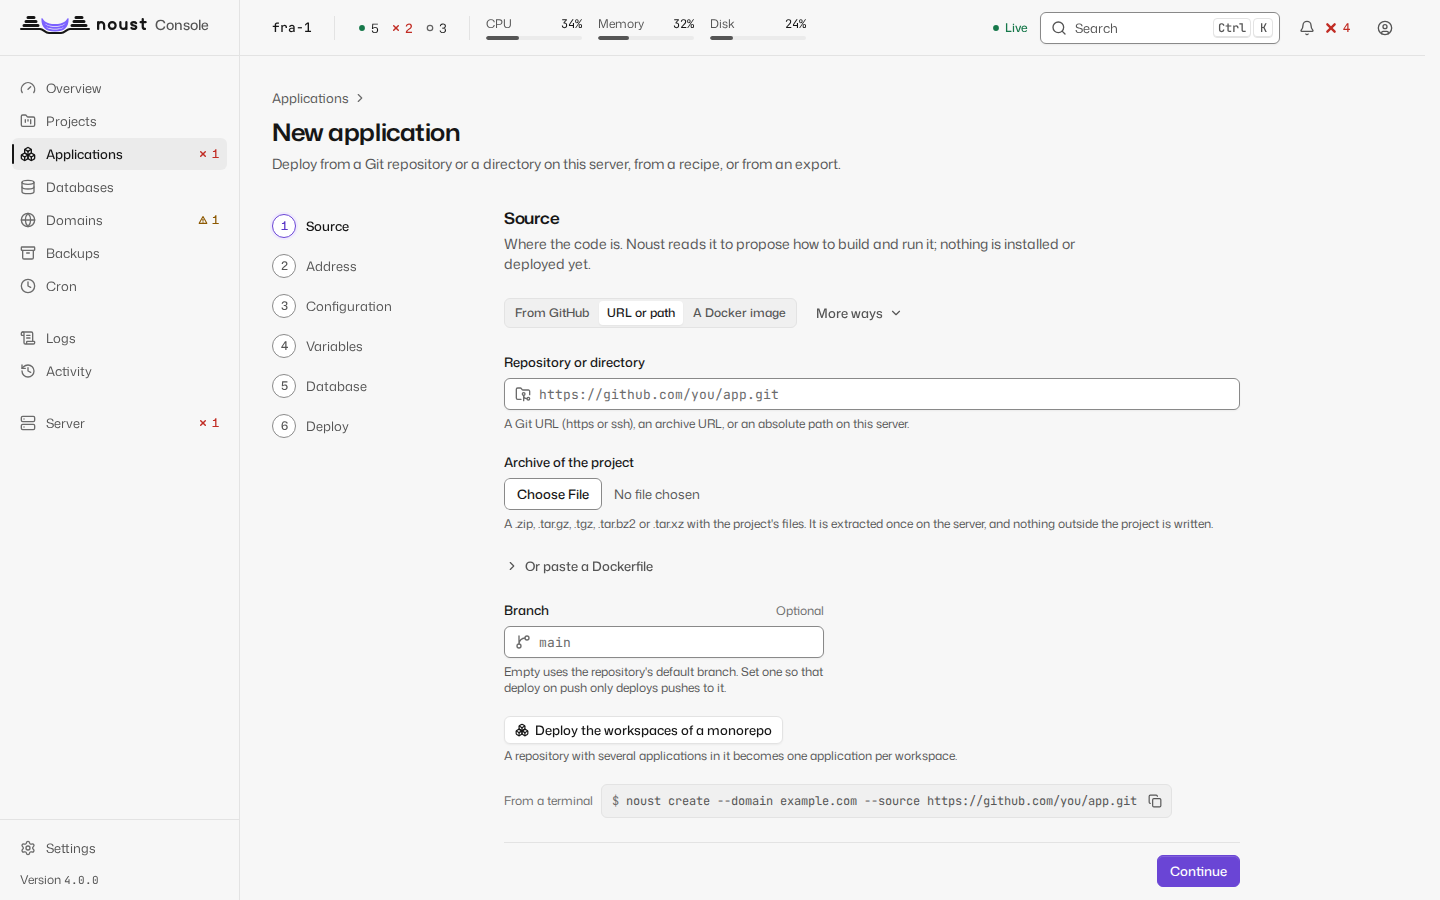
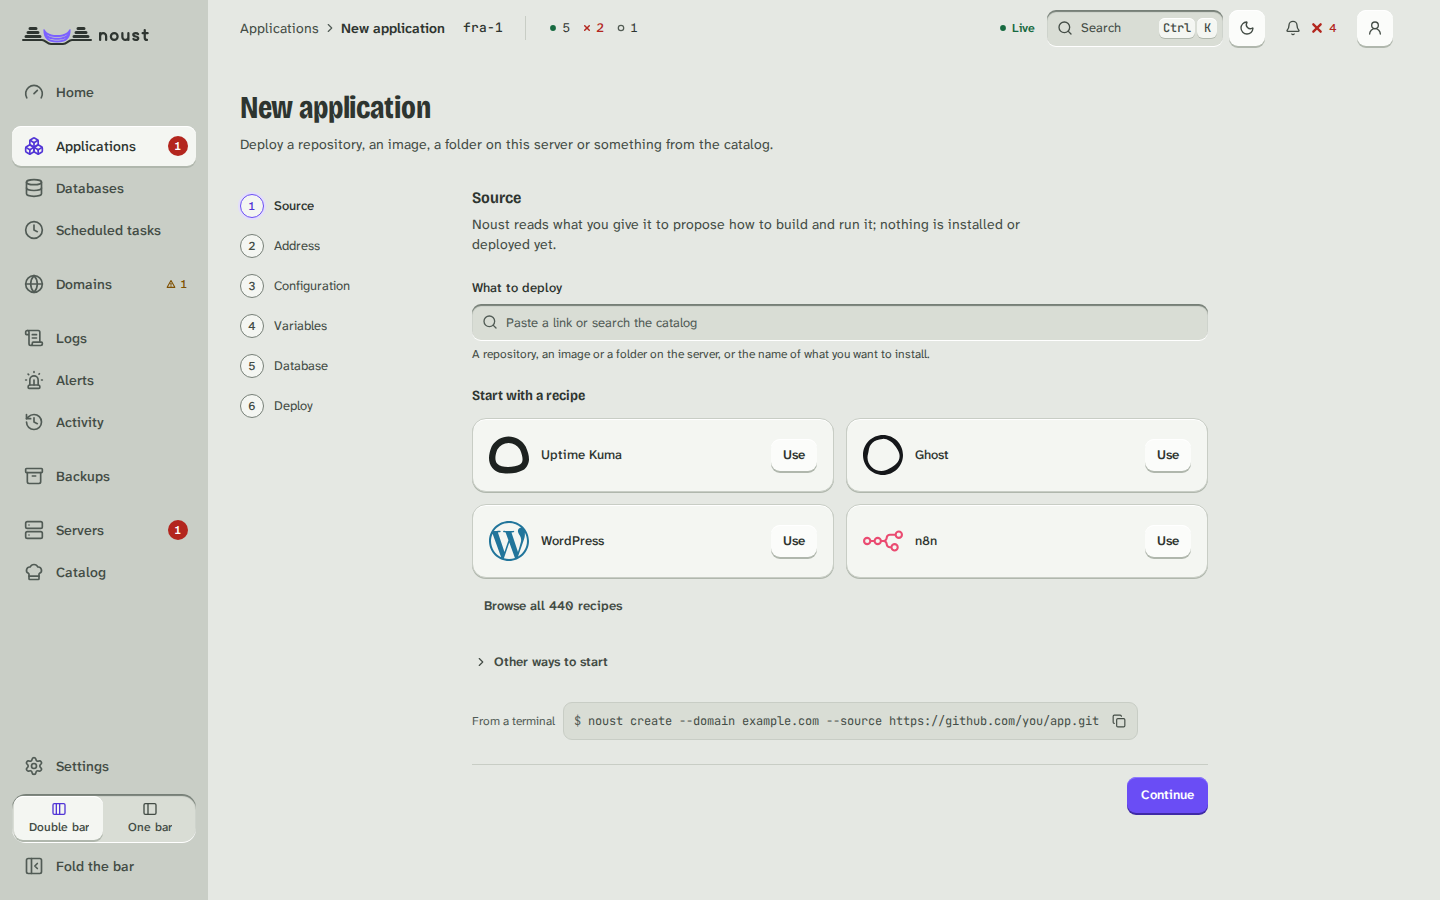
v4.1.0: one fleet worked from the central, a new console, editable roles, Noust DNS and IONOS, any database version and 440 tested recipes

diff --git a/src/noust/__init__.py b/src/noust/__init__.py
@@ -20,7 +20,7 @@ if TYPE_CHECKING:
 #: as an OBS build directory. The single source of truth is the ``version``
 #: field of pyproject.toml; ``scripts/release.py`` keeps this literal and the
 #: distribution packaging files in step with it.
-_FALLBACK_VERSION = "4.0.0"
+_FALLBACK_VERSION = "4.1.0"
 
 
 def _read_version() -> str:

diff --git a/setup.py b/setup.py
@@ -9,7 +9,7 @@ from setuptools import setup, find_packages
 
 setup(
     name="noust",
-    version="4.0.0",
+    version="4.1.0",
     description="Noust - deploy and manage web applications on Linux servers",
     url="https://github.com/Perkybeet/noust",
     author="Yago López Prado",

diff --git a/SECURITY.md b/SECURITY.md
@@ -7,9 +7,9 @@ vulnerability in every one of them. Reports are welcome and handled as described
 
 | Version | Security fixes |
 |---|---|
-| 4.0.x | Yes |
-| 3.3.x | Yes, until 4.1.0 is released |
-| 3.2.x and earlier | No: upgrade to a supported line |
+| 4.1.x | Yes |
+| 4.0.x | Yes, until 4.2.0 is released |
+| 3.3.x and earlier | No: upgrade to a supported line |
 
 Fixes are released as a patch version of each supported line, published to PyPI, the openSUSE
 Build Service repositories (Debian, Ubuntu, Fedora, openSUSE) and the container image
